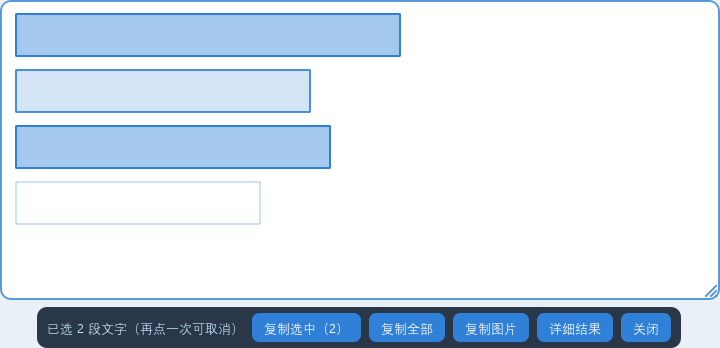
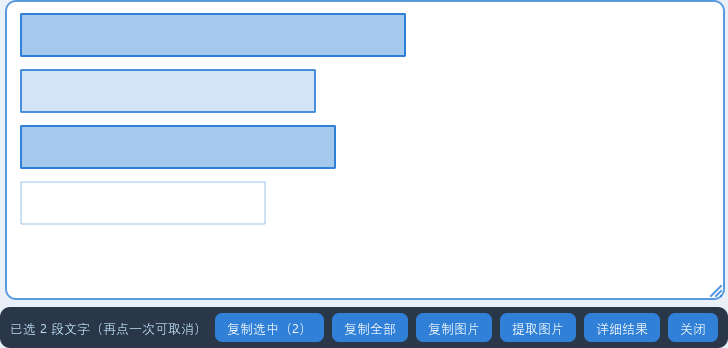
新功能v1.5.0：快捷键浮层新增「提取图片」拖拽抠图（复制+保存），提取模式Esc先退出模式

diff --git a/src/onscreen_result.py b/src/onscreen_result.py
@@ -73,13 +73,20 @@ class OnScreenToolbar(QWidget):
         self.btn_copy_all.clicked.connect(owner.copy_all)
         self.btn_copy_img = QPushButton("复制图片")
         self.btn_copy_img.clicked.connect(owner.copy_image)
+        self.btn_extract = QPushButton("提取图片")
+        self.btn_extract.setCheckable(True)
+        self.btn_extract.toggled.connect(owner.set_extract_mode)
+        self.btn_save_crop = QPushButton("保存提取图")
+        self.btn_save_crop.clicked.connect(owner.save_crop)
+        self.btn_save_crop.setVisible(False)
         self.btn_detail = QPushButton("详细结果")
         self.btn_detail.clicked.connect(owner.open_detail.emit)
         self.btn_close = QPushButton("关闭")
         self.btn_close.clicked.connect(owner.close)
         self._text_buttons = (self.btn_copy_sel, self.btn_copy_all, self.btn_detail)
         for b in (self.btn_copy_sel, self.btn_copy_all, self.btn_copy_img,
-                  self.btn_detail, self.btn_close):
+                  self.btn_extract, self.btn_save_crop, self.btn_detail,
+                  self.btn_close):
             b.setCursor(Qt.PointingHandCursor)
             b.setFocusPolicy(Qt.NoFocus)   # 焦点留在面板上，Esc 始终有效
             b.setStyleSheet(
@@ -113,6 +120,11 @@ class OnScreenResult(QWidget):
         self._resize_edge: int = 0            # 1左 2右 4上 8下
         self._resize_start_geo: QRect | None = None
         self._resize_start_pos: QPoint | None = None
+        self._extract_mode = False            # 提取图片模式（拖拽裁剪）
+        self._crop_start: QPoint | None = None
+        self._crop_band: QRect | None = None
+        self._crop: QPixmap | None = None     # 最近一次提取的图片
+        self._crop_rect: QRect | None = None  # 提取框（面板坐标，用于反馈）
 
         self.setWindowFlags(
             Qt.FramelessWindowHint | Qt.WindowStaysOnTopHint | Qt.Tool
@@ -162,6 +174,8 @@ class OnScreenResult(QWidget):
         self._selected.clear()
         self._hover = None
         self._anchor = None
+        if self._extract_mode:
+            self.toolbar.btn_extract.setChecked(False)
         self._update_status()
         self.update()
 
@@ -318,6 +332,16 @@ class OnScreenResult(QWidget):
             p.setBrush(QColor(74, 144, 226, 40))
             p.drawRect(self._band)
 
+        # 提取图片：裁剪框（琥珀色，与文字选择区分）
+        if self._crop_band is not None:
+            p.setPen(QPen(QColor(240, 173, 78, 255), 2, Qt.DashLine))
+            p.setBrush(QColor(240, 173, 78, 45))
+            p.drawRect(self._crop_band)
+        elif self._crop_rect is not None:
+            p.setPen(QPen(QColor(240, 173, 78, 220), 2))
+            p.setBrush(Qt.NoBrush)
+            p.drawRect(self._crop_rect)
+
         # 处理中 / 失败提示：面板顶部居中的小药丸
         if self._processing or self._error:
             text = "正在识别…" if self._processing else self._error
@@ -384,6 +408,12 @@ class OnScreenResult(QWidget):
             self._resize_start_geo = self.geometry()
             self._resize_start_pos = ev.globalPosition().toPoint()
             return
+        # 提取图片模式：拖拽裁剪
+        if self._extract_mode:
+            self._crop_start = pos
+            self._crop_band = QRect(pos, pos)
+            self.update()
+            return
         hit = self._hit(pos)
         if hit is not None:
             mods = ev.modifiers()
@@ -414,6 +444,10 @@ class OnScreenResult(QWidget):
         if self._resize_edge:
             self._do_resize(ev.globalPosition().toPoint())
             return
+        if self._crop_start is not None:
+            self._crop_band = QRect(self._crop_start, pos).normalized()
+            self.update()
+            return
         if self._band_start is not None:
             self._band = QRect(self._band_start, pos).normalized()
             self.update()
@@ -433,6 +467,15 @@ class OnScreenResult(QWidget):
             self._resize_start_geo = None
             self._resize_start_pos = None
             self.setCursor(Qt.ArrowCursor)
+            return
+        if self._crop_start is not None:
+            band = QRect(self._crop_start, ev.position().toPoint()).normalized()
+            self._crop_start = None
+            self._crop_band = None
+            if band.width() >= 4 and band.height() >= 4:
+                self._finish_crop(band)
+            else:
+                self.update()
             return
         if self._band_start is None:
             return
@@ -455,6 +498,9 @@ class OnScreenResult(QWidget):
     # ---------- 键盘 ----------
     def keyPressEvent(self, ev):
         if ev.key() == Qt.Key_Escape:
+            if self._extract_mode:
+                self.toolbar.btn_extract.setChecked(False)   # 先退出提取模式
+                return
             self.close()
             return
         if ev.key() == Qt.Key_A and (ev.modifiers() & Qt.ControlModifier):
@@ -479,10 +525,13 @@ class OnScreenResult(QWidget):
                 b.setEnabled(False)
         else:
             n = len(self._selected)
-            self.toolbar.label_hint.setText(
-                f"已选 {n} 段文字（再点一次可取消）" if n
-                else "点击文字多选 · 拖拽框选 · 拖拽边缘缩放"
-            )
+            if self._extract_mode:
+                self.toolbar.label_hint.setText("拖拽框选要提取的图片区域（Esc 取消）")
+            else:
+                self.toolbar.label_hint.setText(
+                    f"已选 {n} 段文字（再点一次可取消）" if n
+                    else "点击文字多选 · 拖拽框选 · 拖拽边缘缩放"
+                )
             self.toolbar.btn_copy_sel.setText(f"复制选中（{n}）" if n else "复制选中")
             for b in self.toolbar._text_buttons:
                 b.setEnabled(True)
@@ -517,6 +566,75 @@ class OnScreenResult(QWidget):
     def copy_image(self) -> None:
         QGuiApplication.clipboard().setImage(self._pixmap.toImage())
         self.toolbar.label_hint.setText("已复制图片 ✓")
+        self._layout_toolbar()
+
+    # ---------- 提取图中图片 ----------
+    def set_extract_mode(self, on: bool) -> None:
+        """开启/关闭「提取图片」模式：开启后拖拽即裁剪。"""
+        self._extract_mode = bool(on)
+        if self._extract_mode:
+            self._selected.clear()
+            self._hover = None
+            self._crop_band = None
+            self._crop_start = None
+            self.setCursor(Qt.CrossCursor)
+        else:
+            self.setCursor(Qt.ArrowCursor)
+        self.toolbar.label_hint.setText(
+            "拖拽框选要提取的图片区域（Esc 取消）" if self._extract_mode else ""
+        )
+        self._update_status()
+        self.update()
+
+    def _to_pixmap(self, panel_rect: QRect) -> QRect:
+        """面板坐标 → 原图像素坐标。"""
+        dr = self._draw_rect
+        if dr.width() <= 0 or self._scale <= 0:
+            return QRect()
+        x = (panel_rect.x() - dr.x()) / self._scale
+        y = (panel_rect.y() - dr.y()) / self._scale
+        w = panel_rect.width() / self._scale
+        h = panel_rect.height() / self._scale
+        pw, ph = self._pixmap.width(), self._pixmap.height()
+        x = max(0.0, min(x, pw - 1.0))
+        y = max(0.0, min(y, ph - 1.0))
+        w = max(1.0, min(w, pw - x))
+        h = max(1.0, min(h, ph - y))
+        return QRect(int(round(x)), int(round(y)), int(round(w)), int(round(h)))
+
+    def _finish_crop(self, band: QRect) -> None:
+        src = self._to_pixmap(band)
+        if src.width() < 4 or src.height() < 4:
+            return
+        crop = self._pixmap.copy(src)
+        self._crop = crop
+        self._crop_rect = band
+        QGuiApplication.clipboard().setImage(crop.toImage())
+        self.toolbar.btn_save_crop.setVisible(True)
+        self.toolbar.btn_extract.setChecked(False)   # 提取一次后退出该模式
+        self.toolbar.label_hint.setText(
+            f"已提取并复制图片（{crop.width()}×{crop.height()}）✓ 可点「保存提取图」存为文件"
+        )
+        self._layout_toolbar()
+        self.update()
+
+    def save_crop(self) -> None:
+        if self._crop is None:
+            return
+        import time
+
+        from PySide6.QtWidgets import QFileDialog, QMessageBox
+
+        from .config import APP_TITLE
+
+        default = f"提取图片_{time.strftime('%Y%m%d_%H%M%S')}.png"
+        path, _ = QFileDialog.getSaveFileName(self, "保存提取的图片", default, "PNG 图片 (*.png)")
+        if not path:
+            return
+        if self._crop.save(path, "PNG"):
+            self.toolbar.label_hint.setText(f"已保存：{path}")
+        else:
+            QMessageBox.warning(self, APP_TITLE, "保存失败，请更换路径")
         self._layout_toolbar()
 
     def resizeEvent(self, ev):

diff --git a/tests/test_selection_features.py b/tests/test_selection_features.py
@@ -231,6 +231,50 @@ def test_processing_then_result(app: QApplication) -> None:
     print("PASS：占位面板 → 原地升级 / 失败提示")
 
 
+def test_extract_on_onscreen(app: QApplication) -> None:
+    """快捷键浮层里的「提取图片」：拖拽裁剪 → 复制到剪贴板 → 可保存。"""
+    screen = QGuiApplication.primaryScreen()
+    pm = make_pixmap(600, 200)
+    panel = OnScreenResult(pm, ITEMS, screen, QRect(100, 100, 600, 200), dpr=1.0)
+    panel.show()
+    app.processEvents()
+    assert not panel.toolbar.btn_save_crop.isVisible(), "初始不应显示保存提取图按钮"
+
+    # 开启提取模式：清空文字选择，进入十字光标
+    panel.toolbar.btn_extract.setChecked(True)
+    app.processEvents()
+    assert panel._extract_mode
+    assert panel._selected == set()
+
+    # 拖拽裁剪 140×90（scale=1）
+    QTest.mousePress(panel, Qt.LeftButton, Qt.NoModifier, QPoint(60, 30))
+    QTest.mouseMove(panel, QPoint(200, 120))
+    QTest.mouseRelease(panel, Qt.LeftButton, Qt.NoModifier, QPoint(200, 120))
+    app.processEvents()
+    assert panel._crop is not None, "未生成提取图片"
+    assert panel.toolbar.btn_save_crop.isVisible(), "「保存提取图」按钮未出现"
+    img = QGuiApplication.clipboard().image()
+    assert not img.isNull(), "提取的图片未进入剪贴板"
+    assert abs(img.width() - 140) <= 2 and abs(img.height() - 90) <= 2, (
+        f"提取尺寸不符：{img.width()}×{img.height()}（期望约 140×90）"
+    )
+    assert not panel._extract_mode, "提取完成后应自动退出提取模式"
+
+    # 提取模式下 Esc 先退出模式（不关闭面板）
+    panel.toolbar.btn_extract.setChecked(True)
+    app.processEvents()
+    QTest.keyClick(panel, Qt.Key_Escape)
+    app.processEvents()
+    assert not panel._extract_mode and panel.isVisible(), "Esc 应只退出提取模式"
+
+    # 退出提取模式后文字选择仍正常
+    QTest.mouseClick(panel, Qt.LeftButton, Qt.NoModifier, QPoint(60, 25))
+    app.processEvents()
+    assert panel._selected == {0}
+    panel.close()
+    print("PASS：浮层「提取图片」拖拽裁剪 + 复制 + 可保存")
+
+
 def test_result_multiselect(app: QApplication, tmp: Path) -> None:
     config = Config(path=tmp / "config.json")
     win = ResultWindow(config)
@@ -281,6 +325,7 @@ def main() -> int:
     test_tiny_region(app)
     test_resize(app)
     test_processing_then_result(app)
+    test_extract_on_onscreen(app)
     test_result_multiselect(app, tmp)
     print("PASS：新交互测试全部通过")
     return 0

diff --git a/src/config.py b/src/config.py
@@ -7,7 +7,7 @@ from pathlib import Path
 
 APP_NAME = "ScreenScan"
 APP_TITLE = "屏幕扫描助手"
-APP_VERSION = "1.4.1"
+APP_VERSION = "1.5.0"
 
 DEFAULTS = {
     "hotkey_capture": "alt+s",        # 框选截图识别热键 (pynput 格式)
@@ -65,6 +65,7 @@ class Config:
     def set(self, key: str, value) -> None:
         self.data[key] = value
         self.save()
+
 
 
 

diff --git a/docs/使用说明.md b/docs/使用说明.md
@@ -43,9 +43,10 @@
 | 点面板空白处 | 清空所有选中 |
 | `Ctrl+A` / `回车` | 全选 / 复制已选文字 |
 | 「复制选中」 | 把选中的文字按原顺序复制到剪贴板 |
-| 「复制全部」「复制图片」 | 复制全部文字 / 复制该区域图片 |
+| 「复制全部」「复制图片」 | 复制全部文字 / 复制整个截图 |
+| **「提取图片」** | 开启后**在截图上拖拽框选一块**，松手即把该小块图片复制到剪贴板；随后出现「保存提取图」可存为 png |
 | 「详细结果」 | 打开完整结果窗口（多选、导出、抠图） |
-| `Esc` / 「关闭」 | 关闭浮层 |
+| `Esc` / 「关闭」 | 关闭浮层（提取模式下 Esc 先退出提取模式） |
 | **拖拽面板边缘或右下角** | 调整面板大小（等比缩放，文字和识别框始终对齐，不会变形） |
 
 ## 五、识别结果窗

diff --git a/README.md b/README.md
@@ -34,7 +34,8 @@
 | 点面板空白处 | 清空选中 |
 | `Ctrl+A` / `回车` | 全选 / 复制已选文字 |
 | 操作条「复制选中」 | 把选中的文字按原顺序复制到剪贴板 |
-| 操作条「复制全部 / 复制图片」 | 复制全部文字 / 复制该区域图片 |
+| 操作条「复制全部 / 复制图片」 | 复制全部文字 / 复制整个截图 |
+| 操作条「提取图片」 | 开启后在截图上拖拽框选一块，松手即复制该小块图片；之后可「保存提取图」 |
 | 操作条「详细结果」 | 打开完整结果窗口（多选、导出 txt、抠图等） |
 | `Esc` 或「关闭」 | 关闭浮层 |
 | 拖拽面板边缘 / 右下角 | 调整面板大小（等比缩放，文字与识别框始终对齐） |
